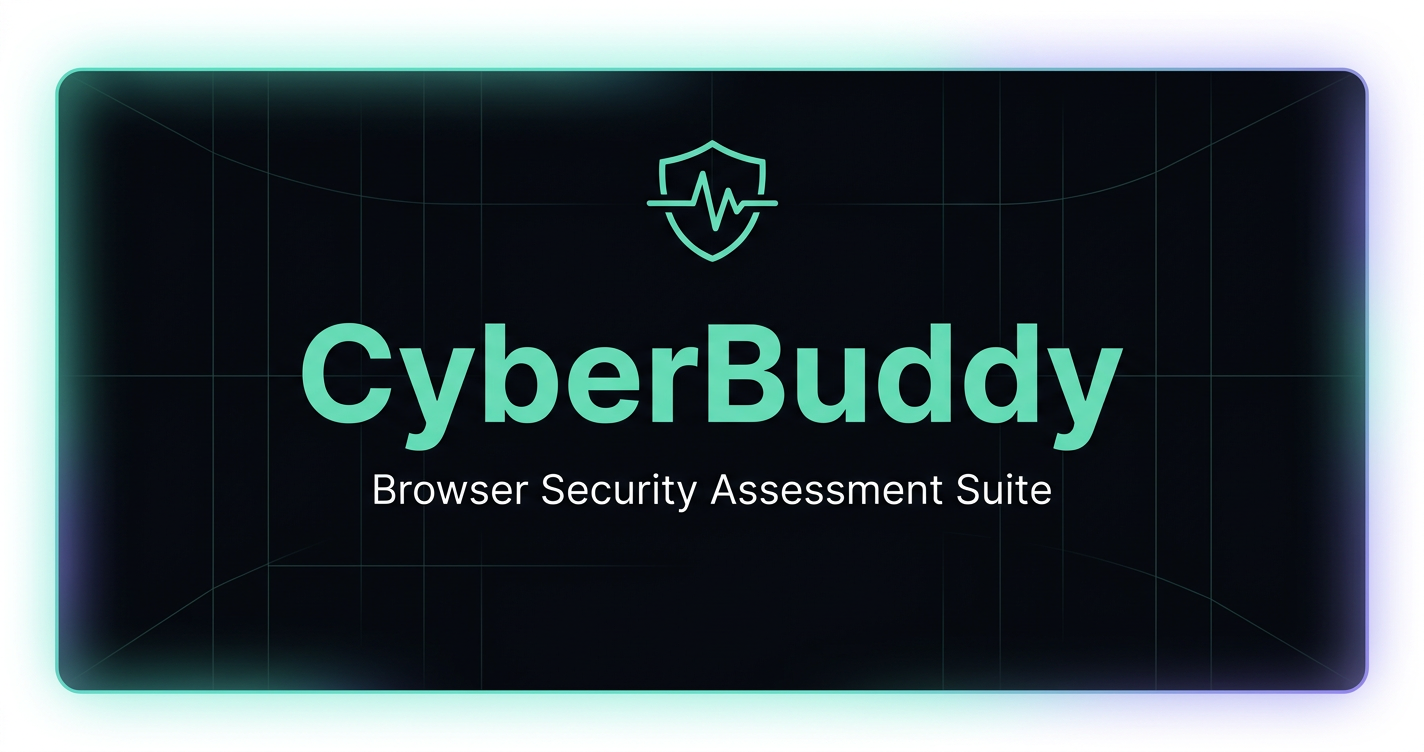
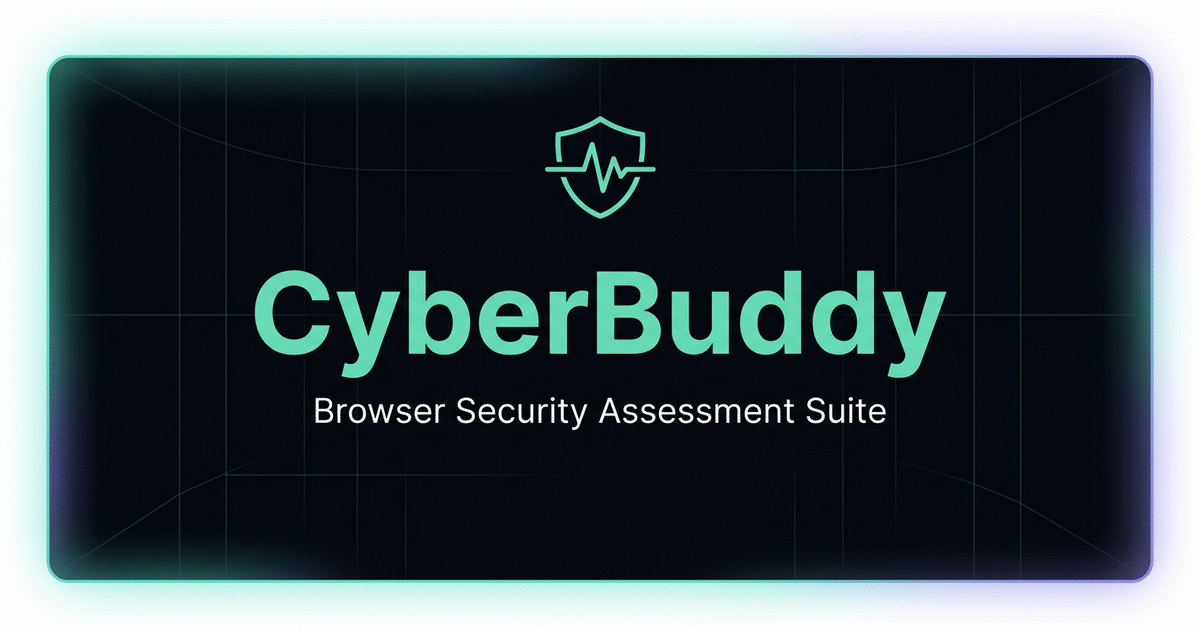
SEO, security.txt, optimized images, canonical URLs, PWA shortcuts
- Canonical URLs on all pages (critical for GitHub Pages SEO)
- og:image:alt on all pages (accessibility)
- .well-known/security.txt for responsible disclosure
- Images optimized: OG card 1.4MB→303KB, icons 2.1MB→255KB
- 404.html: system theme, manifest, icon links
- Tool pages now track recent scans (addRecentScan)
- manifest.webmanifest: PWA shortcuts for all 3 tools
- sitemap.xml: lastmod dates added
- server.py: serve .well-known/, root static assets (PNG, XML, TXT, webmanifest)
- Cache-buster bumped to ?v=20260814a
- README: updated layout, documented .well-known/ workflow copy

diff --git a/index.html b/index.html
@@ -6,6 +6,7 @@
   <title>CyberBuddy — Browser Security Assessment Suite</title>
   <meta name="description" content="CyberBuddy: clickjacking validation, security header grading, and CORS posture checks — evidence-grade results you can drop straight into your report." />
   <meta name="theme-color" content="#07090d" />
+  <link rel="canonical" href="https://amitpal-cyberbuddy.github.io/CyberBuddy/" />
   <meta property="og:title" content="CyberBuddy — Browser Security Assessment Suite" />
   <meta property="og:description" content="Clickjacking, security headers, and CORS — evidence-grade checks you can screenshot." />
   <meta property="og:type" content="website" />
@@ -13,6 +14,7 @@
   <meta property="og:image" content="https://amitpal-cyberbuddy.github.io/CyberBuddy/og-cyberbuddy.png" />
   <meta property="og:image:width" content="1200" />
   <meta property="og:image:height" content="630" />
+  <meta property="og:image:alt" content="CyberBuddy — Browser Security Assessment Suite" />
   <meta name="twitter:card" content="summary_large_image" />
   <meta name="twitter:title" content="CyberBuddy — Browser Security Assessment Suite" />
   <meta name="twitter:description" content="Clickjacking, security headers, and CORS — evidence-grade checks you can screenshot." />
@@ -34,7 +36,7 @@
   </script>
   <link rel="preconnect" href="https://fonts.googleapis.com" />
   <link rel="preconnect" href="https://fonts.gstatic.com" crossorigin />
-  <link rel="stylesheet" href="css/app.css?v=20260813l" />
+  <link rel="stylesheet" href="css/app.css?v=20260814a" />
   <script type="application/ld+json">
     {
       "@context": "https://schema.org",
@@ -56,7 +58,7 @@
       }
     }
   </script>
-  <script src="js/app.js?v=20260813l" defer></script>
+  <script src="js/app.js?v=20260814a" defer></script>
   <script>
     window.addEventListener("DOMContentLoaded", () => {
       renderHeader("/");

diff --git a/tools/clickjacking/index.html b/tools/clickjacking/index.html
@@ -6,6 +6,7 @@
   <title>Clickjacking Validator — CyberBuddy</title>
   <meta name="description" content="Live clickjacking proof: frame a target and screenshot the result." />
   <meta name="theme-color" content="#07090d" />
+  <link rel="canonical" href="https://amitpal-cyberbuddy.github.io/CyberBuddy/tools/clickjacking/" />
   <meta property="og:title" content="Clickjacking Validator — CyberBuddy" />
   <meta property="og:description" content="Live clickjacking proof: frame a target and screenshot the result." />
   <meta property="og:type" content="website" />
@@ -13,6 +14,7 @@
   <meta property="og:image" content="https://amitpal-cyberbuddy.github.io/CyberBuddy/og-cyberbuddy.png" />
   <meta property="og:image:width" content="1200" />
   <meta property="og:image:height" content="630" />
+  <meta property="og:image:alt" content="CyberBuddy — Browser Security Assessment Suite" />
   <meta name="twitter:card" content="summary_large_image" />
   <meta name="twitter:title" content="Clickjacking Validator — CyberBuddy" />
   <meta name="twitter:description" content="Live clickjacking proof: frame a target and screenshot the result." />
@@ -34,8 +36,8 @@
   </script>
   <link rel="preconnect" href="https://fonts.googleapis.com" />
   <link rel="preconnect" href="https://fonts.gstatic.com" crossorigin />
-  <link rel="stylesheet" href="../../css/app.css?v=20260813l" />
-  <script src="../../js/app.js?v=20260813l" defer></script>
+  <link rel="stylesheet" href="../../css/app.css?v=20260814a" />
+  <script src="../../js/app.js?v=20260814a" defer></script>
   <script>
     window.addEventListener("DOMContentLoaded", () => {
       renderHeader("/tools/clickjacking/");
@@ -223,6 +225,7 @@
       if (!url || !validUrl(url)) { $("url").focus(); return; }
       $("url").value = url;
       pushUrlParam(url);
+      addRecentScan(url);
       scan(url);
     });
 

diff --git a/tools/headers/index.html b/tools/headers/index.html
@@ -6,6 +6,7 @@
   <title>Security Headers — CyberBuddy</title>
   <meta name="description" content="Grade a URL's security headers into an A–F score." />
   <meta name="theme-color" content="#07090d" />
+  <link rel="canonical" href="https://amitpal-cyberbuddy.github.io/CyberBuddy/tools/headers/" />
   <meta property="og:title" content="Security Headers — CyberBuddy" />
   <meta property="og:description" content="Grade a URL's security headers into an A–F score." />
   <meta property="og:type" content="website" />
@@ -13,6 +14,7 @@
   <meta property="og:image" content="https://amitpal-cyberbuddy.github.io/CyberBuddy/og-cyberbuddy.png" />
   <meta property="og:image:width" content="1200" />
   <meta property="og:image:height" content="630" />
+  <meta property="og:image:alt" content="CyberBuddy — Browser Security Assessment Suite" />
   <meta name="twitter:card" content="summary_large_image" />
   <meta name="twitter:title" content="Security Headers — CyberBuddy" />
   <meta name="twitter:description" content="Grade a URL's security headers into an A–F score." />
@@ -34,8 +36,8 @@
   </script>
   <link rel="preconnect" href="https://fonts.googleapis.com" />
   <link rel="preconnect" href="https://fonts.gstatic.com" crossorigin />
-  <link rel="stylesheet" href="../../css/app.css?v=20260813l" />
-  <script src="../../js/app.js?v=20260813l" defer></script>
+  <link rel="stylesheet" href="../../css/app.css?v=20260814a" />
+  <script src="../../js/app.js?v=20260814a" defer></script>
   <script>
     window.addEventListener("DOMContentLoaded", () => {
       renderHeader("/tools/headers/");
@@ -216,6 +218,7 @@
       if (!url || !validUrl(url)) { $("url").focus(); return; }
       $("url").value = url;
       pushUrlParam(url);
+      addRecentScan(url);
       scan(url);
     });
 

diff --git a/tools/cors/index.html b/tools/cors/index.html
@@ -6,6 +6,7 @@
   <title>CORS Validator — CyberBuddy</title>
   <meta name="description" content="Check how a site shares data with other origins." />
   <meta name="theme-color" content="#07090d" />
+  <link rel="canonical" href="https://amitpal-cyberbuddy.github.io/CyberBuddy/tools/cors/" />
   <meta property="og:title" content="CORS Validator — CyberBuddy" />
   <meta property="og:description" content="Check how a site shares data with other origins." />
   <meta property="og:type" content="website" />
@@ -13,6 +14,7 @@
   <meta property="og:image" content="https://amitpal-cyberbuddy.github.io/CyberBuddy/og-cyberbuddy.png" />
   <meta property="og:image:width" content="1200" />
   <meta property="og:image:height" content="630" />
+  <meta property="og:image:alt" content="CyberBuddy — Browser Security Assessment Suite" />
   <meta name="twitter:card" content="summary_large_image" />
   <meta name="twitter:title" content="CORS Validator — CyberBuddy" />
   <meta name="twitter:description" content="Check how a site shares data with other origins." />
@@ -34,8 +36,8 @@
   </script>
   <link rel="preconnect" href="https://fonts.googleapis.com" />
   <link rel="preconnect" href="https://fonts.gstatic.com" crossorigin />
-  <link rel="stylesheet" href="../../css/app.css?v=20260813l" />
-  <script src="../../js/app.js?v=20260813l" defer></script>
+  <link rel="stylesheet" href="../../css/app.css?v=20260814a" />
+  <script src="../../js/app.js?v=20260814a" defer></script>
   <script>
     window.addEventListener("DOMContentLoaded", () => {
       renderHeader("/tools/cors/");
@@ -187,6 +189,7 @@
       if (!url || !validUrl(url)) { $("url").focus(); return; }
       $("url").value = url;
       pushUrlParam(url);
+      addRecentScan(url);
       probe(url);
     });
 

diff --git a/404.html b/404.html
@@ -6,12 +6,16 @@
   <title>Page not found — CyberBuddy</title>
   <meta name="robots" content="noindex" />
   <meta name="theme-color" content="#07090d" />
+  <link rel="apple-touch-icon" href="icon-192.png" />
+  <link rel="icon" type="image/png" sizes="192x192" href="icon-192.png" />
+  <link rel="icon" type="image/png" sizes="512x512" href="icon-512.png" />
+  <link rel="manifest" href="manifest.webmanifest" />
   <script>
     (function () {
       try {
-        if (localStorage.getItem("cb-theme") === "light") {
-          document.documentElement.setAttribute("data-theme", "light");
-        }
+        var s = localStorage.getItem("cb-theme");
+        if (s === "light") document.documentElement.setAttribute("data-theme", "light");
+        else if (!s && window.matchMedia && window.matchMedia("(prefers-color-scheme: light)").matches) document.documentElement.setAttribute("data-theme", "light");
       } catch (_) {}
       var path = location.pathname || "/";
       var next = path.replace(/\/js\/app\.js(?=\/)/, "");

diff --git a/server.py b/server.py
@@ -43,9 +43,13 @@ PORT = 8080
 ALLOW_PRIVATE = True
 ROOT = Path(__file__).resolve().parent
 
-ALLOWED_STATIC_SUFFIXES = {".html", ".css", ".js", ".json"}
-STATIC_PREFIXES = ("tools/", "css/", "js/", "cache/")
-ROOT_STATIC = frozenset({"index.html", "404.html"})
+ALLOWED_STATIC_SUFFIXES = {".html", ".css", ".js", ".json", ".png", ".xml", ".webmanifest", ".txt"}
+STATIC_PREFIXES = ("tools/", "css/", "js/", "cache/", ".well-known/")
+ROOT_STATIC = frozenset({
+    "index.html", "404.html",
+    "robots.txt", "sitemap.xml", "manifest.webmanifest",
+    "og-cyberbuddy.png", "icon-192.png", "icon-512.png",
+})
 # GitHub Pages project URL is /CyberBuddy/… — accept the same prefix locally
 # so a hosted-style path does not 404 when someone points server.py at it.
 MOUNT_PREFIXES = ("/CyberBuddy",)
@@ -277,6 +281,10 @@ class Handler(BaseHTTPRequestHandler):
             ".css": "text/css; charset=utf-8",
             ".js": "text/javascript; charset=utf-8",
             ".json": "application/json; charset=utf-8",
+            ".png": "image/png",
+            ".xml": "application/xml; charset=utf-8",
+            ".webmanifest": "application/manifest+json; charset=utf-8",
+            ".txt": "text/plain; charset=utf-8",
         }.get(path.suffix, "application/octet-stream")
         # Use streaming for potentially large files
         self._send_file_streaming(200, path, ctype)
@@ -352,6 +360,16 @@ class Handler(BaseHTTPRequestHandler):
 
         if path.startswith("/css/") or path.startswith("/js/") or path.startswith("/cache/"):
             self._static(path.lstrip("/"))
+            return
+
+        if path.startswith("/.well-known/"):
+            self._static(path.lstrip("/"))
+            return
+
+        # Root-level static assets (robots.txt, sitemap.xml, manifest, icons, OG image)
+        rel = path.lstrip("/")
+        if rel in ROOT_STATIC:
+            self._static(rel)
             return
 
         self._not_found()

diff --git a/README.md b/README.md
@@ -61,6 +61,12 @@ api/                            # optional hosted Python API (Vercel)
 apilib.py                       # shared WSGI plumbing for api/ (outside api/)
 vercel.json                     # Vercel config for api/
 cache/                          # generated by tools/build_cache.py
+.well-known/security.txt        # responsible disclosure contact
+og-cyberbuddy.png               # Open Graph / Twitter social card
+icon-192.png / icon-512.png     # PWA icons (manifest)
+manifest.webmanifest            # PWA manifest with tool shortcuts
+robots.txt                      # search engine directives
+sitemap.xml                     # sitemap for crawlers
 clickjacking_validator.py       # clickjacking engine + shared fetch/URL safety
 security_headers.py             # headers engine + CLI
 cors_validator.py               # two-origin CORS engine + CLI
@@ -115,8 +121,11 @@ layers make the hosted site as close to `server.py` as possible:
 
    - **Metadata assets:** the workflow also copies `og-cyberbuddy.png`,
      `icon-192.png`, `icon-512.png`, `manifest.webmanifest`, `robots.txt`,
-     and `sitemap.xml` into `_site/`. Use `test -f "$f" && cp "$f" _site/ || true`
-     for each file so the build never fails if an asset is temporarily missing.
+     `sitemap.xml`, and `.well-known/security.txt` into `_site/`. Use
+     `test -f "$f" && cp "$f" _site/ || true` for each file so the build
+     never fails if an asset is temporarily missing. Also add
+     `test -d .well-known && cp -a .well-known _site/ || true` for the
+     security contact file.
 
    The UI prefers the cache over the public lookups (fresh within 24h) and
    marks reports `via cached report`.
